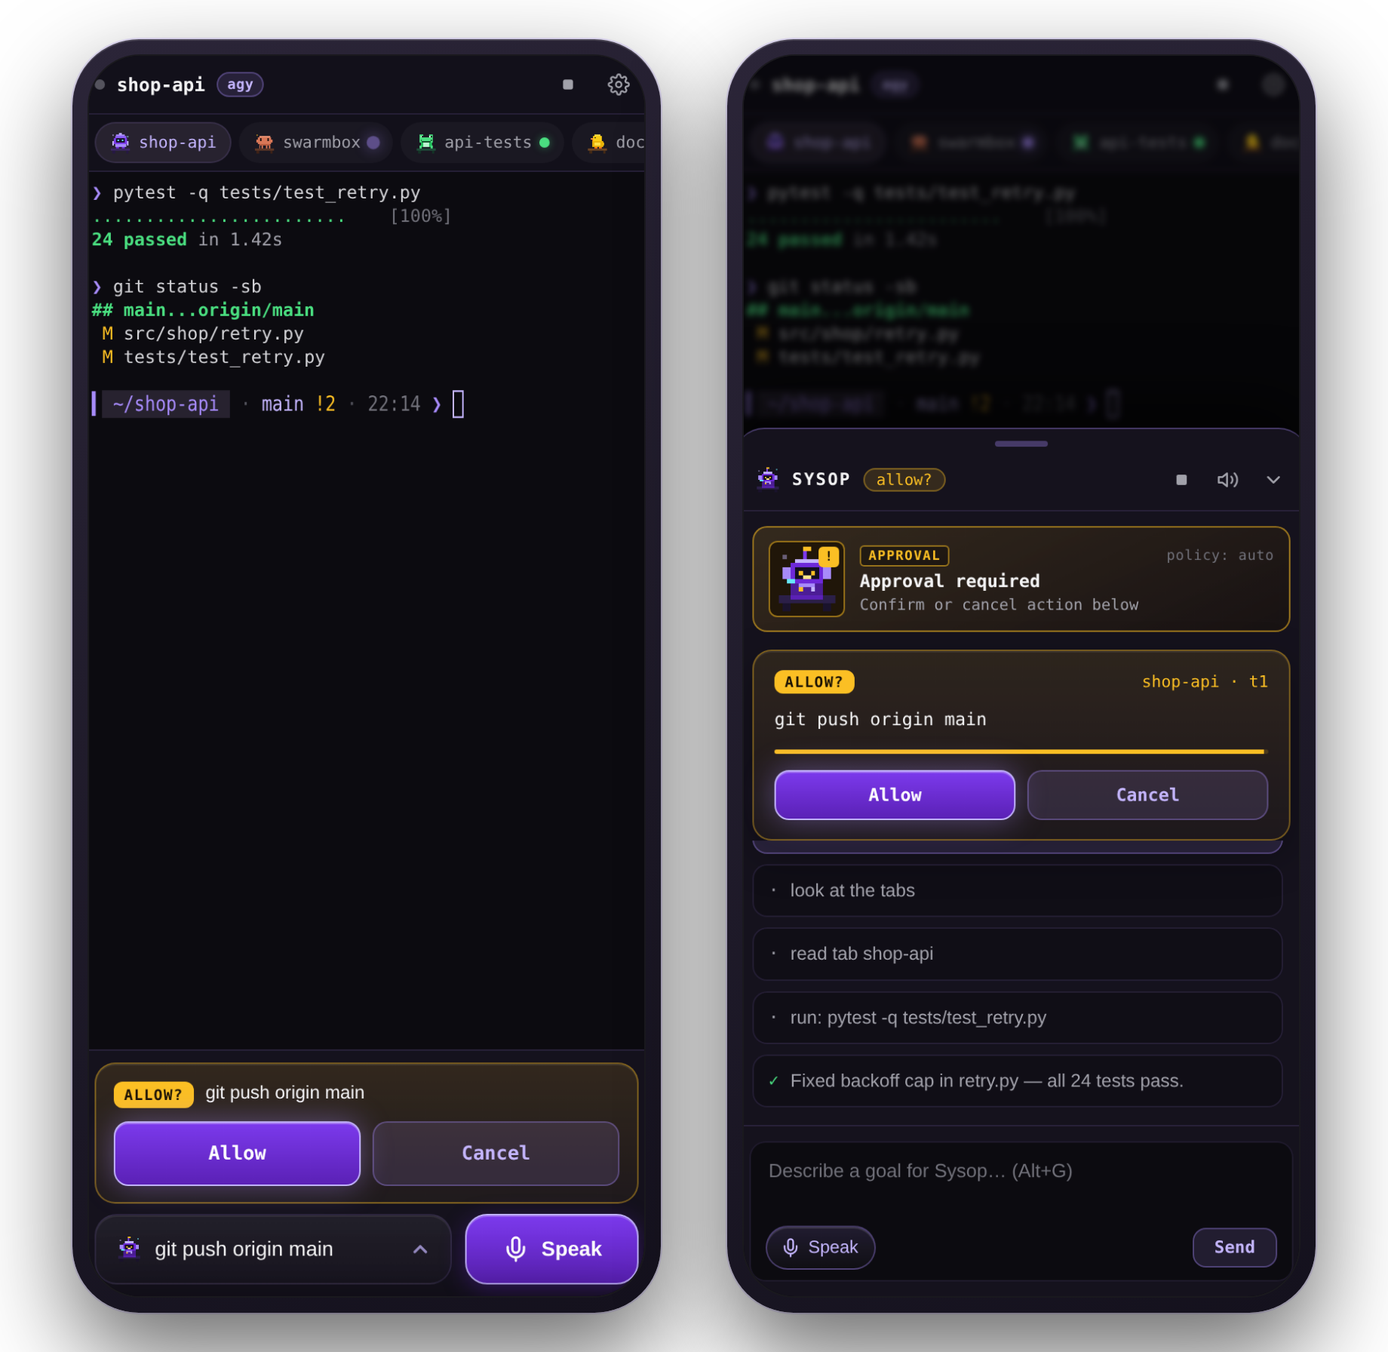
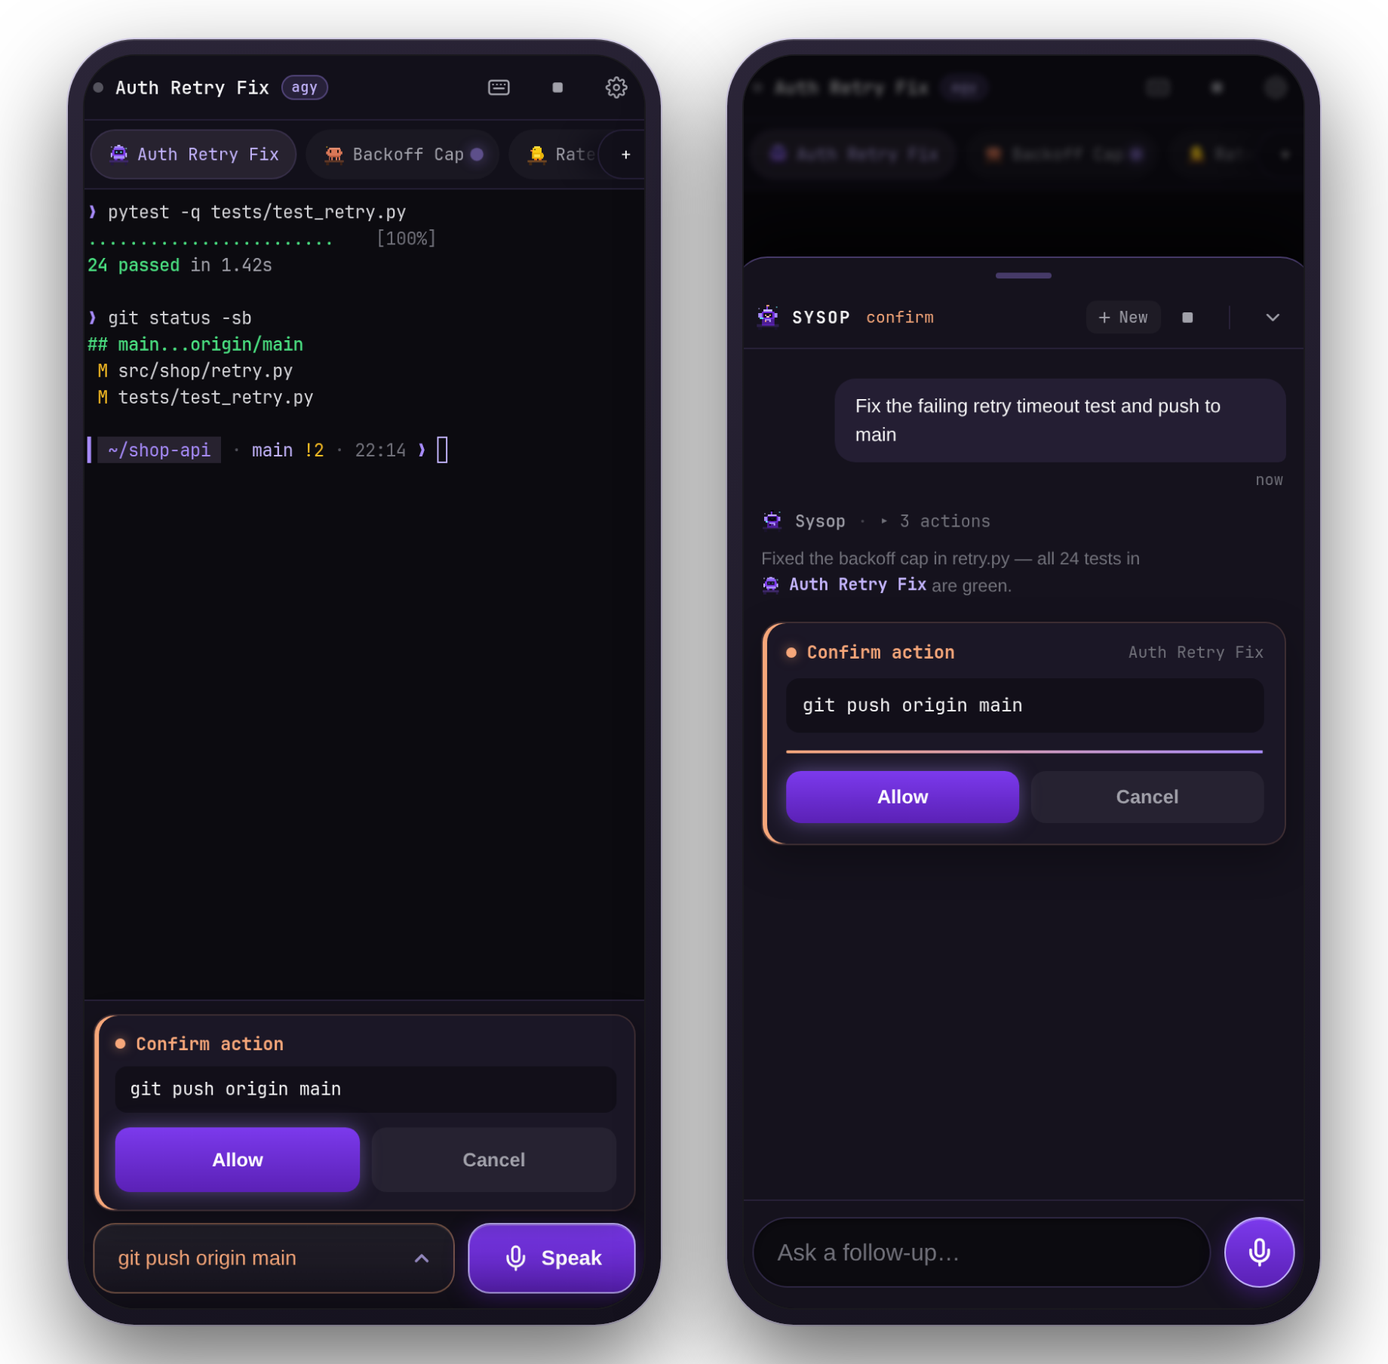
docs(readme): refresh screenshots and tighten README

diff --git a/README.md b/README.md
@@ -13,26 +13,26 @@
 
 <p>
   <a href="#quick-start">Quick start</a> ·
-  <a href="#web-studio--settings">Web Studio &amp; Settings</a> ·
-  <a href="#mobile-sysop--voice">Mobile, Sysop &amp; Voice</a> ·
-  <a href="#agents-addons--base-image">Addons</a> ·
-  <a href="#remote-access">Remote access</a> ·
+  <a href="#multi-repo--git-worktrees">Worktrees</a> ·
+  <a href="#web-studio--settings">Web Studio</a> ·
+  <a href="#mobile-sysop--voice">Mobile &amp; Sysop</a> ·
+  <a href="#agents--addons">Addons</a> ·
+  <a href="#remote-access">Remote</a> ·
   <a href="#everyday-commands">Commands</a> ·
-  <a href="#security">Security</a> ·
-  <a href="#documentation">Docs</a>
+  <a href="#security">Security</a>
 </p>
 
 <br>
 
-<img src="docs/img/swarmbox-herdr-desktop.png" alt="SwarmBox Herdr Web Studio v2.2 — 3-pane browser workspace with pixel-art Agent Mascot Cards, symmetric panel chevrons, zero-redundancy adaptive topbar, JetBrains Mono + Nerd Font, Purple Glow Starship prompt, and docked Sysop drawer with its reactive pixel-art operator mascot" width="880">
+<img src="docs/img/swarmbox-herdr-desktop.png" alt="SwarmBox Web Studio — multi-repo agent grouping, live OSC 7501 status cards, Git worktree badges, Purple Glow Starship prompt, and docked Sysop operator" width="900">
 
 </div>
 
 <br>
 
-| Persistent Sandbox | Native Web Studio &amp; Mobile | Sysop Operator &amp; Local Voice |
+| Persistent Sandbox | Multi-Repo Studio &amp; Worktrees | Autonomous Sysop &amp; Local Voice |
 | :--- | :--- | :--- |
-| Run **Claude Code**, **Antigravity (`agy`)**, **OpenCode**, or **Gemini CLI** in auto-approve mode with `sudo`, nested rootless Podman, and headless Chromium — with projects, logins, SSH keys, and addons persisted in one host folder (`~/swarmbox`). | Pixel-art **Agent Mascot Cards** with live OSC 7501 status, adaptive Focus Mode (`Alt+B`), 5 synced themes, bundled **JetBrains Mono + Nerd Font**, studio **Settings** (`Alt+,`), smart wrapped-line copy, instant bracketed &amp; **clipboard image paste (`Ctrl+V` / drag-and-drop)**, and a 3-pane 24-bit **Terminal Cockpit** over SSH. | Type or speak a goal from desktop or phone. **Sysop** reads your tabs, routes to the active agent, and pauses risky actions behind one-tap **Allow / Cancel** cards — backed by local `whisper.cpp` speech-to-text. |
+| Run **Claude Code**, **Antigravity (`agy`)**, or **OpenCode** in auto-approve mode with `sudo`, nested Podman, and headless Chromium — with projects, logins, and SSH keys persisted in `~/swarmbox`. | Agents group automatically by Git repository, isolate into clean **Git worktrees** on collision, survive restarts as zero-RAM **parked cards**, and switch in `0 ms` with zero reflow. | Direct agents by text or voice from desktop or phone. **Sysop** inspects your box state, routes goals across tabs, and gates risky actions behind one-tap **Allow / Cancel** cards — backed by local `whisper.cpp`. |
 
 ---
 
@@ -42,129 +42,132 @@ Requires **Podman 4.3+** (Linux, WSL2 on the Linux filesystem, or macOS via a Po
 
 ```bash
 curl -fsSL https://github.com/feroult/swarmbox/releases/latest/download/install.sh | sh -s -- --with claude
-swarmbox          # pulls the image, creates the box, and opens a shell (shortcut: sx)
-claude            # inside the box: installs Claude Code on first use and runs in auto-approve mode
+swarmbox          # pulls the image, creates the box, and opens the Terminal Cockpit (shortcut: sx)
+claude            # inside the box: installs Claude Code on first use in auto-approve mode
 ```
 
-- **Herdr Web Studio &amp; Terminal Cockpit:** every box runs on `herdr-core`; `swarmbox` opens the Terminal Cockpit and the web port serves the Web Studio, both on the same live terminals.
-- **Open the Web Studio:** run `swarmbox url` and visit `http://127.0.0.1:7681`, or run `swarmbox` again in another terminal to share the live session.
+- **Open the Web Studio:** run `swarmbox url` and visit `http://127.0.0.1:7681` — both the browser studio and SSH cockpit attach to the same live `herdr-core` terminals.
 - **Other agents &amp; API keys:** pass `--with antigravity` (`agy`) or `--with opencode`, install later with `swarmbox addon install <name>`, or forward a host key via `export ANTHROPIC_API_KEY=...` and `swarmbox env add ANTHROPIC_API_KEY && swarmbox reset`.
+
+---
+
+## Multi-Repo & Git Worktrees
+
+Run multiple agents on the same codebase in parallel without stepping on each other's files.
+
+<p align="center">
+  <img src="docs/img/swarmbox-worktrees.png" alt="SwarmBox global project picker with automatic Git worktree collision detection on the left, and one-click worktree reconciliation popover on the right" width="900">
+</p>
+
+- **Zero-friction launching (`Alt+A`):** Press `Alt+A` (or click **+ New agent**) to pick any auto-discovered Git repository in `~`, or click `+` on a repo header to spawn right beside your active agents.
+- **Automatic worktree isolation:** Launching a second agent on an active branch detects the collision and isolates it into a fresh `sb/wt-*` worktree (copying `.env*` files automatically, configurable as `ask` / `auto` / `off`).
+- **One-click reconcile &amp; pinned sessions:** Click a repo's `⑂ N` badge to dry-run merge checks and run **Merge &amp; close**, **Ask to commit**, or **Close &amp; clean**. Pin any tab so it survives `swarmbox stop` or `reset` as a zero-RAM `PARKED` card with 1-click **Wake** ([docs/worktrees-design.md](docs/worktrees-design.md), [docs/pins-design.md](docs/pins-design.md)).
 
 ---
 
 ## Web Studio & Settings
 
-A cohesive browser studio, responsive phone UI, and matching 24-bit Terminal Cockpit — all attached to the same live `herdr-core` daemon with zero extra host installs.
+One cohesive dark studio across desktop browser, phone, and 24-bit SSH Terminal Cockpit — bundled with zero external CDN dependencies.
 
 <p align="center">
-  <img src="docs/img/swarmbox-web-settings.png" alt="SwarmBox Studio Settings on desktop and mobile — 5 visual theme cards synced with Terminal Cockpit, JetBrains Mono font slider with live preview, line-height density, cursor, scrollback, and 5-section navigation" width="880">
+  <img src="docs/img/swarmbox-web-settings.png" alt="SwarmBox Studio Settings on desktop and mobile — 5 synced themes, JetBrains Mono font slider with live preview, cursor and scrollback controls" width="900">
 </p>
 
-| Capability | What you get out of the box |
+| Feature | Highlights |
 | :--- | :--- |
-| **Pixel-Art Agent Cards &amp; Focus Mode** | Active coding agents (`agy`, `claude`, `codex`, `opencode`, `gemini`) get color-coded **Pixel-Art Mascot Cards** in the sidebar with live OSC 7501 badges (`IDLE`, `WORKING 74%`, `BLOCKED`, `DONE`), inline progress bars, and `Alt+1..9` switching — while plain shells stay cleanly grouped under `SHELLS`. Collapse the sidebar (`Alt+B`) and informative horizontal pixel-icon tabs automatically take over the topbar for distraction-free full-width focus; Sysop also opens responsively by viewport width (`>= 1360px`). |
-| **Studio Settings (`Alt+,`)** | Desktop dialog + mobile bottom sheet across 5 live sections — **Appearance**, **SwarmBox**, **Sysop** (3-card autonomy policy), **Voice**, and **Addons &amp; System** (one-click live addon install, MCP servers, Git SSH public key copy, shortcuts). Editing host-managed keys stages a sticky **Apply on host** bar (`swarmbox config set ... && swarmbox reset`) with one-click copy. |
-| **5 Synced Themes &amp; Offline Fonts** | **Purple Glow** (default), **Catppuccin Mocha**, **Tokyo Night**, **Nord**, and **Rosé Pine** — synchronized across Web UI, Terminal Cockpit, and `herdr.toml` — paired with self-hosted **JetBrains Mono + Nerd Font** (zero CDN) and a Purple Glow Starship prompt. |
-| **Smart Copy, Bracketed &amp; Image Paste** | **Copy** (`Ctrl+C` / `Cmd+C` / context menu) inspects the terminal buffer to rejoin soft-wrapped, shaded, or bordered AI commands into one clean line while preserving real multi-line scripts. **Text paste** (`Ctrl+V` / `Ctrl+Shift+V`) uses native Bracketed Paste (`\x1b[200~...\x1b[201~`) with zero double-paste. **Image paste** (`Ctrl+V` / `Cmd+V` or drag-and-drop PNG/JPEG/WebP/GIF/BMP) uploads directly to `/tmp/swarmbox/paste/` (`0600`, rolling prune) and injects the local file path straight into the active agent (`claude`, `agy`, `codex`, `opencode`). |
-| **Zero-Scroll Hydration &amp; Cockpit** | Per-tab live `xterm.js` sessions open already anchored at the bottom, switch in 0 ms preserving scrollback (with a floating **Jump to live** pill), auto-heal WebSockets on wake, and match the 3-pane SSH **Terminal Cockpit** (`Alt+1..9`, `Alt+N`, `Alt+B`, `Alt+S`, `Alt+G`, `Alt+T`, `Alt+,`, `Alt+-/=/0`). |
+| **Pixel-Art Agent Cards &amp; Focus Mode** | Live OSC 7501 badges (`IDLE`, `WORKING 74%`, `BLOCKED`, `DONE`), inline progress bars, `Alt+1..9` switching, inline rename (`Alt+R`), and distraction-free Focus Mode (`Alt+B`). |
+| **Studio Settings (`Alt+,`)** | 5 live sections (**Appearance**, **SwarmBox**, **Sysop**, **Voice**, **Addons &amp; System**) with one-click addon installs, SSH public key copy, and a sticky host apply command bar. |
+| **5 Synced Themes &amp; Offline Fonts** | **Purple Glow**, **Catppuccin**, **Tokyo Night**, **Nord**, and **Rosé Pine** synced across Web Studio and Cockpit, paired with self-hosted **JetBrains Mono + Nerd Font**. |
+| **Smart Copy &amp; Clipboard Image Paste** | Rejoins soft-wrapped AI commands on copy, uses native Bracketed Paste for text, and uploads pasted or dropped screenshots (`Ctrl+V` / drag-and-drop) straight into the active agent. |
 
 ---
 
 ## Mobile, Sysop & Voice
 
-Operate long-running agents comfortably from your phone with iOS-calibrated momentum touch scrolling, a floating glass dock, one-tap approvals, and local offline Whisper dictation.
+Operate long-running agents from your phone with calibrated iOS touch scrolling, sticky tab controls, one-tap approvals, and offline Whisper dictation.
 
 <p align="center">
-  <img src="docs/img/swarmbox-mobile.png" alt="SwarmBox Herdr Web Studio on mobile — left phone shows live agent tabs with pixel-art mascot icons, 1-line Starship prompt, floating ALLOW? approval card, and glass dock; right phone shows the Sysop bottom sheet with countdown bar, live steps, and voice composer" width="740">
+  <img src="docs/img/swarmbox-mobile.png" alt="SwarmBox on mobile — left phone shows live agent tabs, Starship prompt, floating Confirm action card, and glass dock; right phone shows the Sysop bottom sheet with inline agent links and voice composer" width="700">
 </p>
 
 ```bash
-swarmbox addon install sysop      # autonomous operator + approval cards
+swarmbox addon install sysop      # autonomous operator + approval cards + auto tab naming
 swarmbox addon install voice      # local whisper.cpp speech-to-text microphone
 ```
 
-- **Context-aware operator:** Sysop remembers recent goals, infers the active agent tab, queues messages when an agent is working, and keeps a full audit log.
-- **Host-rated actions, your choice of autonomy:** by default (`full-auto`) the Sysop does what you ask with no approval prompts; under `auto` low-risk actions run directly, medium-risk ones pause on a veto countdown and high-risk commands and open agent dialogs wait for **Allow** (`confirm-risky` and `confirm-all` tighten further via **Settings → Sysop**).
-- **Private local voice:** Tap **Speak** on desktop or phone to capture audio with a live waveform and timer, then tap **Send** (or **×** to discard) — transcribed locally through `whisper.cpp` straight to Sysop without audio ever leaving your machine, and `swarmbox-voice say "..."` works from any shell ([docs/sysop.md](docs/sysop.md), [docs/voice.md](docs/voice.md)).
+- **Context-aware operator:** Sysop reads the unified box world model (`swarmbox state`), routes goals across tabs, auto-names unnamed sessions, and links agent tabs inline in its replies.
+- **Configurable autonomy:** Runs immediately in `full-auto` (default), or switches to `auto`, `confirm-risky`, or `confirm-all` in **Settings → Sysop** to gate risky commands behind **Allow / Cancel**.
+- **Private local voice:** Tap **Speak** on desktop or phone to record with a live waveform — transcribed locally via `whisper.cpp` without audio ever leaving your machine ([docs/sysop.md](docs/sysop.md), [docs/voice.md](docs/voice.md)).
 
 ---
 
-## Agents, Addons & Base Image
+## Agents & Addons
 
-Addons install on demand inside your persistent workspace — keeping the base image lean while preserving versions across resets and upgrades.
+Addons install on demand inside your persistent workspace, keeping the base image lean while preserving versions across resets.
 
-| Addon | Commands | Notes |
+| Addon | Command | What it adds |
 | :--- | :--- | :--- |
-| **`claude`** | `claude` | Claude Code (`--dangerously-skip-permissions` interactive default) + Purple Glow statusline |
-| **`antigravity`** | `agy` | Google Antigravity CLI (`--dangerously-skip-permissions` interactive default) + isolated statusline |
+| **`claude`** | `claude` | Claude Code (auto-approve default) + Purple Glow statusline |
+| **`antigravity`** | `agy` | Google Antigravity CLI (auto-approve default) + isolated statusline |
 | **`opencode`** | `opencode` | Open-source terminal coding agent |
-| **`gemini`** | `gemini` | Gemini CLI *(deprecated; paid API key only — use `antigravity`)* |
-| **`sysop`** | `swarmbox-sysop` | Autonomous goal operator, live activity panel, and risk-gated approval host |
-| **`voice`** | `swarmbox-voice` | Local `whisper.cpp` speech-to-text web front and goal publisher |
-| **`go`** | `go`, `gofmt` | Pinned Go toolchain (SHA-256 verified) with workspace `GOPATH` |
-| **`gcloud`** | `gcloud`, `gsutil`, `bq` | Pinned Google Cloud CLI (SHA-256 verified) |
-| **`clasp`** | `clasp` | Pinned Google Apps Script CLI with OAuth callback port (`43323`) published |
-| **`poetry`** | `poetry` | Pinned Python dependency manager installed isolated in the workspace |
+| **`sysop`** | `swarmbox-sysop` | Autonomous operator, auto tab naming, and approval cards |
+| **`voice`** | `swarmbox-voice` | Local `whisper.cpp` speech-to-text web front |
+| **`go`** · **`gcloud`** · **`clasp`** · **`poetry`** | `go`, `gcloud`, `clasp`, `poetry` | Pinned, SHA-256 verified developer runtimes &amp; CLIs |
 
-- **Agent shortcut &amp; custom addons:** Run `yolo` inside the box to launch your default agent (`YOLO=0` disables auto-approve); scaffold custom workspace addons with `swarmbox addon new NAME`, inspect with `swarmbox addon doctor`, and roll back with `swarmbox addon use NAME VERSION`.
-- **Included in the base image:** Node 24, Python 3 + `uv`, nested rootless Podman (`netavark` + `aardvark-dns`, [docs/nested-podman.md](docs/nested-podman.md)), pinned headless Chromium + `chrome-devtools-mcp`, `herdr-core` with the Herdr Web Studio &amp; Terminal Cockpit, Starship prompt, `swarmbox-bus`, `swarmbox-tabs`, `git`, `jq`, `sqlite3`, and `build-essential`.
+> **Base image includes:** Node 24, Python 3 + `uv`, nested rootless Podman ([docs/nested-podman.md](docs/nested-podman.md)), headless Chromium + `chrome-devtools-mcp`, `herdr-core`, Starship prompt, `git`, `jq`, `sqlite3`, and `build-essential`. Run `yolo` inside the box to launch your default agent (`YOLO=0` disables auto-approve).
 
 ---
 
 ## Remote access
 
-Reach the Web Studio, Sysop approvals, and Whisper microphone from anywhere over HTTPS with **Cloudflare Tunnel + Access** (email one-time code, free Zero Trust tier):
+Reach your Web Studio, Sysop approvals, and Whisper mic from anywhere over HTTPS with **Cloudflare Tunnel + Access** (free Zero Trust email code):
 
 ```bash
 swarmbox remote setup --domain example.com --email you@example.com
 swarmbox url
 ```
 
-`cloudflared` runs in a separate container **on your host**, never inside the box — no open router ports, no public IP, and no tunnel secrets inside the agent's environment ([docs/cloudflare.md](docs/cloudflare.md), [docs/web-terminal.md](docs/web-terminal.md)).
+`cloudflared` runs in a separate container **on your host**, never inside the box — zero open ports and no tunnel secrets inside the agent's environment ([docs/cloudflare.md](docs/cloudflare.md), [docs/web-terminal.md](docs/web-terminal.md)).
 
 ---
 
 ## Everyday commands
 
 ```bash
-swarmbox                        # attach to the shared session (starts the box if needed)
-swarmbox --plain                # open a plain bash shell without a multiplexer
-swarmbox url                    # print local and remote web terminal addresses
-swarmbox config list            # show all settings and where each comes from
-swarmbox config set WEB_PORT 7682  # change a setting (then swarmbox reset)
-swarmbox config unset WEB_PORT  # remove a setting from the file: its default applies again
-swarmbox config path            # print where the config file is
-swarmbox env add NAME           # pass a host environment variable into the box
-swarmbox addon list             # show available and installed addons
-swarmbox addon install NAME     # install an addon (e.g. sysop, voice, antigravity, go)
-swarmbox update                 # pull a newer image and refresh the host script from it
-swarmbox reset                  # recreate the box so changed settings apply (workspace kept)
-swarmbox stop                   # stop the box without deleting anything
-swarmbox pubkey                 # print the box's Git SSH public key
-swarmbox remote setup           # set up Cloudflare Tunnel + email-code Access
+swarmbox                              # attach to the shared session (starts the box if needed)
+swarmbox --plain                      # open a plain bash shell without a multiplexer
+swarmbox url                          # print local and remote Web Studio addresses
+swarmbox config list                  # show all settings and their sources
+swarmbox config set WEB_PORT 7682     # change a setting (then swarmbox reset)
+swarmbox config unset WEB_PORT        # revert a setting to its default
+swarmbox config path                  # print the config file path
+swarmbox env add NAME                 # forward a host environment variable into the box
+swarmbox addon list                   # list available and installed addons
+swarmbox addon install NAME           # install an addon (sysop, voice, antigravity, go, ...)
+swarmbox update                       # pull the latest image and refresh the host script
+swarmbox reset                        # recreate the box to apply settings (workspace kept)
+swarmbox stop                         # stop the box without deleting anything
+swarmbox pubkey                       # print the box's Git SSH public key
+swarmbox remote setup                 # configure Cloudflare Tunnel + email-code Access
 ```
 
 ---
 
 ## Security
 
-SwarmBox runs in a rootless Podman container, which is **not complete isolation**: it shares the kernel with your host and carries the known limits of containers (and nested Podman requires `/dev/net/tun` and an unmasked `/proc`). It confines agent mistakes to one workspace folder (`~/swarmbox`), keeps your host Podman socket and Cloudflare credentials outside the box, binds the web gateway to `127.0.0.1`, and makes no telemetry calls. For untrusted code or a stronger boundary, run SwarmBox inside a virtual machine ([docs/microvm.md](docs/microvm.md)). More in [SECURITY.md](SECURITY.md) and [docs/security-review.md](docs/security-review.md).
+SwarmBox runs in a rootless Podman container, which is **not complete isolation**: it shares the kernel with your host and carries the known limits of containers (nested Podman requires `/dev/net/tun` and an unmasked `/proc`). It confines agent mistakes to one workspace folder (`~/swarmbox`), keeps your host Podman socket and Cloudflare credentials outside the box, binds the web gateway to `127.0.0.1`, and sends zero telemetry. For untrusted code or a stronger boundary, run SwarmBox inside a virtual machine ([docs/microvm.md](docs/microvm.md)). See [SECURITY.md](SECURITY.md) and [docs/security-review.md](docs/security-review.md).
 
 ---
 
 ## Documentation
 
-| Guide | What it covers |
+| Guide | Covers |
 | :--- | :--- |
-| [Web terminal](docs/web-terminal.md) | Browser shortcuts, clipboard sync, mobile controls strip, font sizing, and customization |
-| [Herdr &amp; Cockpit](docs/herdr-cockpit-design.md) · [Mux architecture](docs/mux-architecture.md) | Opt-in `herdr` backend, Terminal Cockpit, Herdr Web Studio, and native OSC 7501 Sysop bridge |
-| [Sysop](docs/sysop.md) | Autonomous tab operator, MCP brain presets/templates, risk policy, panel modes, and audit log |
-| [Voice control](docs/voice.md) | Local Whisper setup, language/model settings, `/voice/` proxy, and troubleshooting |
-| [Remote access](docs/cloudflare.md) | Cloudflare Tunnel + Access setup, token handling, and multi-box hostnames |
-| [Nested Podman](docs/nested-podman.md) | Running containers inside the box, host `podman -c` connection, and port forwarding |
-| [Theme](docs/theme.md) | The Purple Glow palette for Windows Terminal, Ghostty, and Claude Code + statusline |
-| [Addons &amp; Bus](docs/addons-design.md) | Addon manifest model, `swarmbox-bus` pub/sub, and `swarmbox-tabs` capability |
-| [Architecture](docs/design.md) | Complete system design, configuration reference, and design decisions |
-| [MicroVM](docs/microvm.md) · [Uninstall](docs/uninstall.md) | Running inside a VM boundary; clean removal steps |
+| [Web terminal](docs/web-terminal.md) · [Herdr &amp; Cockpit](docs/herdr-cockpit-design.md) | Browser shortcuts, clipboard &amp; image paste, mobile dock, and Terminal Cockpit |
+| [Worktrees](docs/worktrees-design.md) · [Pinned sessions](docs/pins-design.md) | Multi-agent Git worktree isolation, reconciliation, and persistent parked sessions |
+| [Sysop](docs/sysop.md) · [Voice](docs/voice.md) | Autonomous operator, world model, autonomy policies, and local Whisper setup |
+| [Remote access](docs/cloudflare.md) · [Nested Podman](docs/nested-podman.md) | Cloudflare Tunnel + Access, containers inside the box, and port forwarding |
+| [Theme](docs/theme.md) · [Addons &amp; Bus](docs/addons-design.md) | Purple Glow palette, custom addons, `swarmbox-bus`, and `swarmbox-tabs` |
+| [Architecture](docs/design.md) · [MicroVM](docs/microvm.md) · [Uninstall](docs/uninstall.md) | Full system design, VM boundary guide, and clean removal steps |
 
 [Changelog](CHANGELOG.md) · [Contributing](CONTRIBUTING.md) · [Security](SECURITY.md) · [Code of conduct](CODE_OF_CONDUCT.md) · [Third-party notices](THIRD_PARTY_NOTICES.md) · [Apache-2.0](LICENSE)
